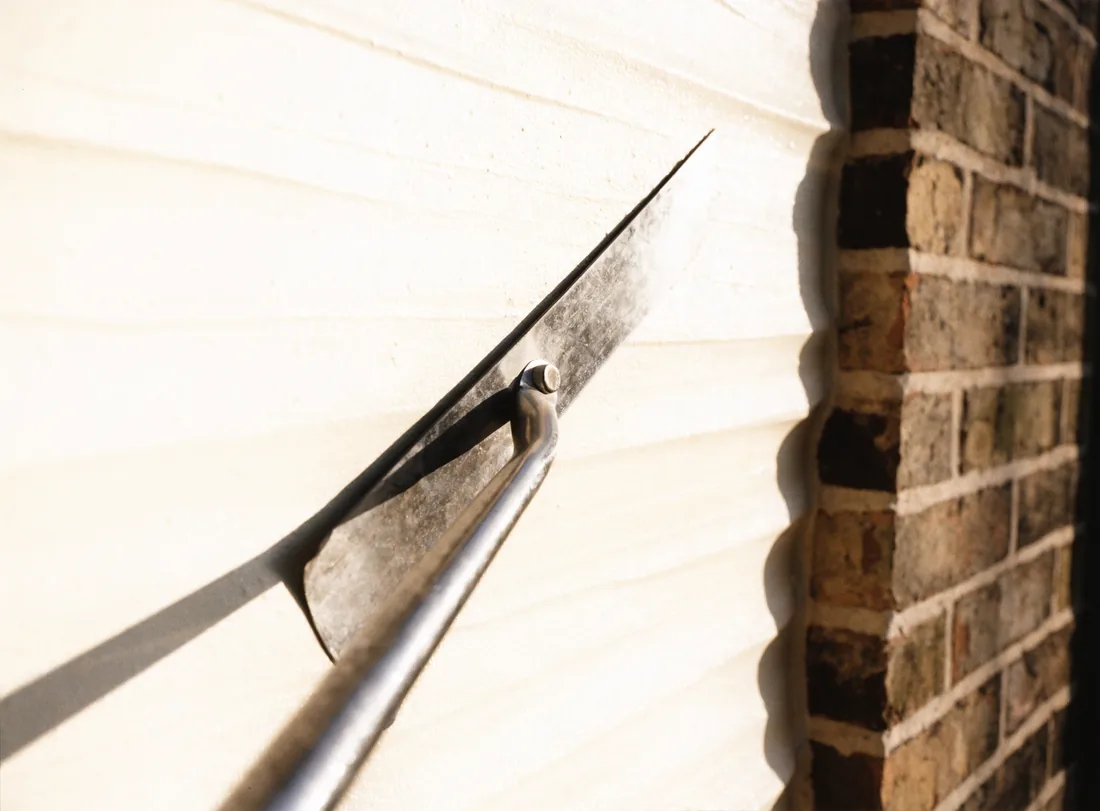
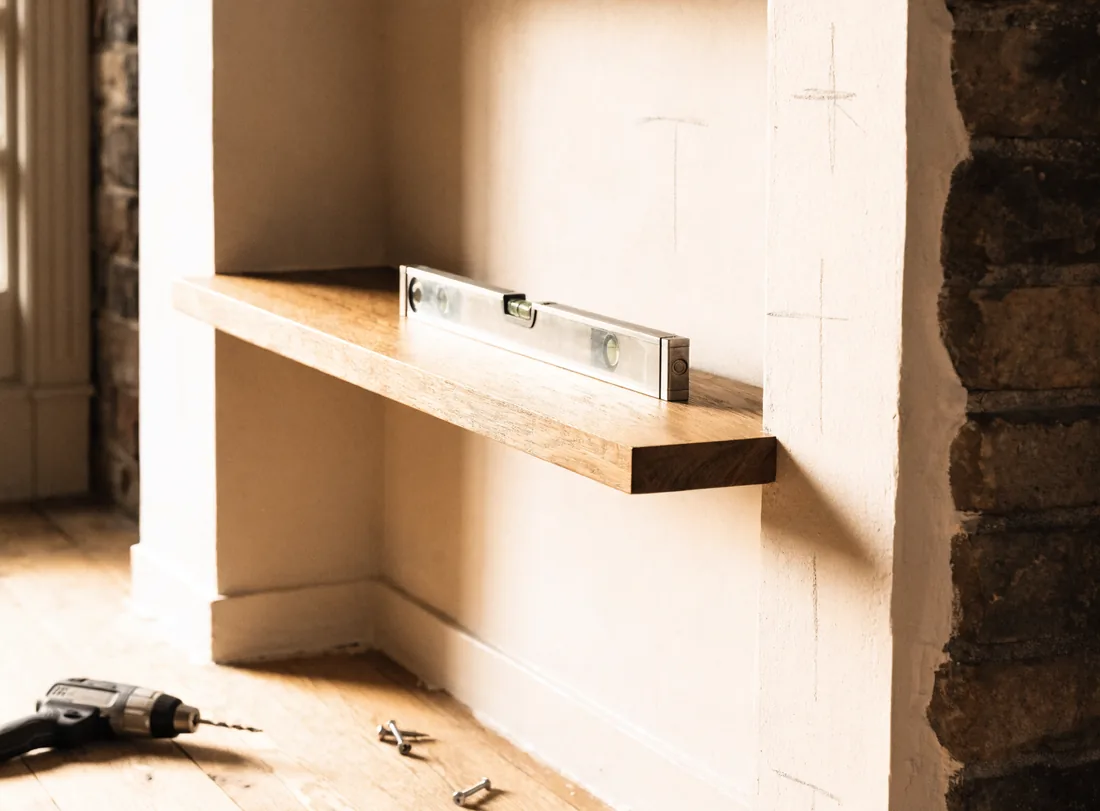
Vassallo: drop coming soon, and put a shelf on the minor works card
Bathrooms and kitchens no longer carry a coming soon badge. They were
already links carrying their own service, so with the badge gone the
honest thing is to let them be ordinary trades: they take the same
Enquire badge as the rest, and the veil and muted type that marked them
as pending are removed. All six cards now read identically.

The veil and muted rules are deleted rather than left behind, since
nothing carries the soon class any more.

Minor works was a trowel on fresh plaster, which read as plastering
rather than as the small jobs the card is about. It is now an oak shelf
being fitted into an alcove, level on its brackets, with the pencil
setting out marks still on the wall and a drill and screws on the boards
below. Two candidates were generated and the wider scene was chosen: the
tight detail version did not read as shelving at card size.

The card copy moves with the picture, leading on shelving and joinery, so
the image and the words agree.

Verified in the browser: all six photographs load at 1100 natural width
at full opacity, every badge reads Enquire, and no card carries the soon
class.

Claude-Session: https://claude.ai/code/session_01A4bhL1MfmxBZK1T2UDZLDH

diff --git a/vassallo/index.html b/vassallo/index.html
@@ -237,11 +237,6 @@ section{position:relative;z-index:2}
    for the case where the image cannot load, so a card is never an empty box */
 .trade .frame img{position:absolute;inset:0;width:100%;height:100%;object-fit:cover;z-index:2;
   transition:transform .9s var(--e-out), opacity .5s}
-/* a veil over the photograph, never opacity on the photograph itself: the fallback
-   line drawing sits behind the image and would otherwise ghost through it */
-.trade.soon .frame::after{content:"";position:absolute;inset:0;z-index:3;pointer-events:none;
-  background:var(--paper);opacity:.3;transition:opacity .5s}
-a.trade.soon:hover .frame::after,a.trade.soon:focus-visible .frame::after{opacity:.1}
 .trade .frame svg .hl{stroke:var(--brass)}
 .trade .badge{position:absolute;top:1rem;left:1rem;z-index:4;font-size:.62rem;letter-spacing:.18em;text-transform:uppercase;
   background:var(--paper);color:var(--ink);padding:.5em .9em;border:1px solid var(--line)}
@@ -252,9 +247,6 @@ a.trade.soon:hover .frame::after,a.trade.soon:focus-visible .frame::after{opacit
 a.trade:hover .frame,a.trade:focus-visible .frame{border-color:var(--brass)}
 a.trade:hover .frame svg,a.trade:focus-visible .frame svg{opacity:1;transform:scale(1.05)}
 a.trade:hover .frame img,a.trade:focus-visible .frame img{transform:scale(1.045);opacity:1}
-/* .soon stays visually muted but is a real link, so interest can be registered early */
-.trade.soon .frame svg{opacity:.46}
-.trade.soon .meta h3,.trade.soon .scope{opacity:.74}
 @media (prefers-reduced-motion: reduce){a.trade:hover .frame svg,a.trade:hover .frame img{transform:none}}
 
 /* ============================================================
@@ -527,7 +519,7 @@ footer{border-top:1px solid var(--line);padding-block:clamp(3rem,8vh,6rem);posit
       </a>
       <a class="trade reveal d1" href="#enquire" data-service="Minor works">
         <div class="frame">
-          <img src="images/minor-works.webp" alt="A trowel smoothing fresh plaster beside crisply repointed London stock brickwork" width="1100" height="811" loading="lazy" decoding="async">
+          <img src="images/minor-works.webp" alt="An oak shelf being fitted into an alcove, sitting level on its brackets with a spirit level on top and a drill on the floor below" width="1100" height="811" loading="lazy" decoding="async">
           <svg viewBox="0 0 120 90" fill="none" stroke="currentColor" stroke-width="2" stroke-linecap="round" stroke-linejoin="round" aria-hidden="true">
             <path d="M22 76h76M22 62h76M22 48h76"/>
             <path d="M46 76V62M74 76V62M34 62V48M62 62V48M90 62V48"/>
@@ -538,7 +530,7 @@ footer{border-top:1px solid var(--line);padding-block:clamp(3rem,8vh,6rem);posit
           <span class="badge live">Enquire</span>
         </div>
         <div class="meta"><h3>Minor works</h3></div>
-        <p class="scope">Smaller jobs done properly: repairs, making good, brickwork, plastering and remedial work.</p>
+        <p class="scope">Smaller jobs done properly: shelving and joinery, repairs, making good, plastering and remedial work.</p>
       </a>
       <a class="trade reveal d2" href="#enquire" data-service="Window and door replacements">
         <div class="frame">
@@ -569,7 +561,7 @@ footer{border-top:1px solid var(--line);padding-block:clamp(3rem,8vh,6rem);posit
         <div class="meta"><h3>Roofing works</h3></div>
         <p class="scope">Re-roofs, recovers and repairs, with flashing, guttering and rainwater goods put right at the same time.</p>
       </a>
-      <a class="trade soon reveal d1" href="#enquire" data-service="Bathrooms">
+      <a class="trade reveal d1" href="#enquire" data-service="Bathrooms">
         <div class="frame">
           <img src="images/bathrooms.webp" alt="A finished bathroom in warm stone tile with aged brass brassware and a frameless glass shower" width="1100" height="811" loading="lazy" decoding="async">
           <svg viewBox="0 0 120 90" fill="none" stroke="currentColor" stroke-width="2" stroke-linecap="round" stroke-linejoin="round" aria-hidden="true">
@@ -577,12 +569,12 @@ footer{border-top:1px solid var(--line);padding-block:clamp(3rem,8vh,6rem);posit
             <path d="M34 74v6M86 74v6"/><path d="M20 50h80"/>
             <path class="hl" d="M82 50V32a8 8 0 0 0-8-8h-8"/><path class="hl" d="M62 18v12"/>
           </svg>
-          <span class="badge">Coming soon</span>
+          <span class="badge live">Enquire</span>
         </div>
         <div class="meta"><h3>Bathrooms</h3></div>
         <p class="scope">Full bathroom design and installation, from first fix plumbing to tiling and finish.</p>
       </a>
-      <a class="trade soon reveal d2" href="#enquire" data-service="Kitchens">
+      <a class="trade reveal d2" href="#enquire" data-service="Kitchens">
         <div class="frame">
           <img src="images/kitchens.webp" alt="A finished kitchen with handleless cabinetry, a pale stone worktop and an aged brass tap" width="1100" height="811" loading="lazy" decoding="async">
           <svg viewBox="0 0 120 90" fill="none" stroke="currentColor" stroke-width="2" stroke-linecap="round" stroke-linejoin="round" aria-hidden="true">
@@ -591,7 +583,7 @@ footer{border-top:1px solid var(--line);padding-block:clamp(3rem,8vh,6rem);posit
             <path d="M28 58h10M56 58h10M84 58h10"/>
             <path class="hl" d="M52 16h30l8 16H44z"/><path class="hl" d="M60 40h14"/>
           </svg>
-          <span class="badge">Coming soon</span>
+          <span class="badge live">Enquire</span>
         </div>
         <div class="meta"><h3>Kitchens</h3></div>
         <p class="scope">Kitchen design, supply and installation, coordinated with the electrics and plumbing behind it.</p>
